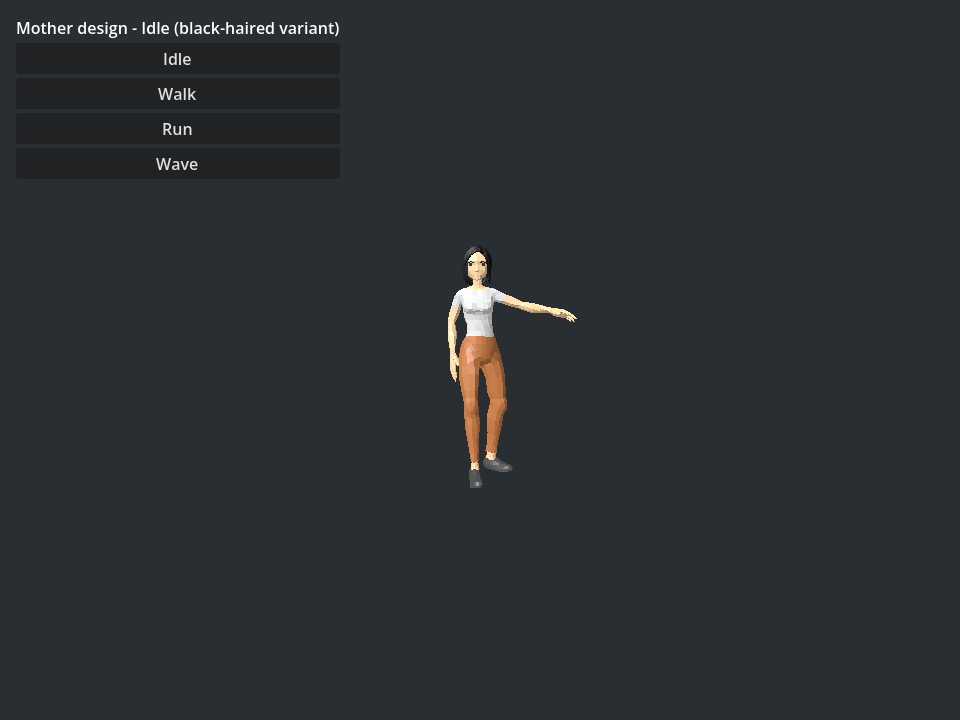
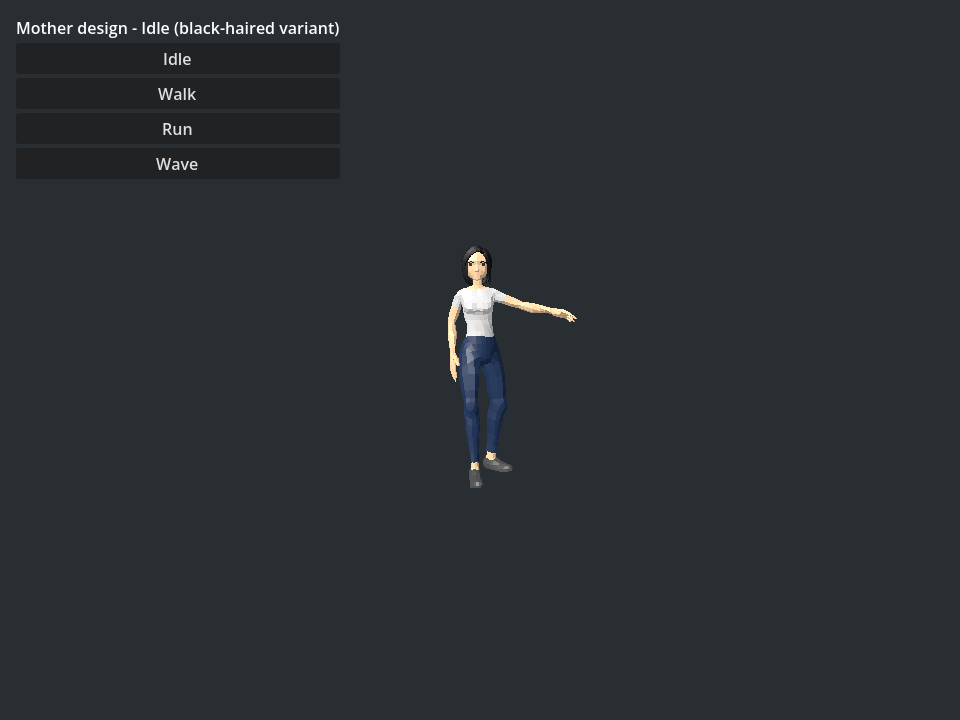
Refine mother clothing and confirm subtle horror design

Changed region(s): [[0.4688, 0.4583, 0.5312, 0.6417]]

diff --git a/design/monster/DESIGN_STAGES.md b/design/monster/DESIGN_STAGES.md
@@ -2,6 +2,8 @@
 
 ## Confirmed direction
 
+Confirmed refinement: keep short black hair and the white shirt; change the trousers to navy blue jeans. Use dark hollow-looking eyes and an exposed-teeth smile, with subtle creepiness rather than exaggerated horror. The pants material is now navy blue; denim texture/detail is not yet added. Hollow eyes and exposed teeth are approved but not yet modeled.
+
 A white mother of average build, black hair, everyday clothing, and a stylized low-poly appearance. Her body remains mostly human. The uncanny features are an unnaturally wide smile, vacant eyes, stretched limbs, and increasing facial distortion.
 
 `assets/monster/Mother.gltf` is a separate first design variant of the approved Casual model. Both hair materials were changed to near-black. Its geometry, rig, clothing, skin material, and animations remain those of the source. The original model is preserved. The existing slim silhouette may need broadening to match the requested average build; skin appearance and clothing colors also need visual approval.
@@ -17,12 +19,8 @@ A white mother of average build, black hair, everyday clothing, and a stylized l
 
 These stage details are proposals, not implemented changes or confirmed gameplay thresholds. Keep one recognizable character and one rig throughout. The current source model lacks facial morph targets; facial geometry needs inspection and custom modeling before promising a smooth transformation.
 
-## Decisions before the next modeling step
+## Next modeling step
 
-- Keep the current short hairstyle or use a longer black hairstyle?
-- Keep the white shirt and orange trousers, or choose a different everyday outfit palette?
-- Vacant eyes: pale/clouded eyes or dark hollow-looking eyes?
-- Wide smile: show teeth or keep a closed-mouth stretched smile?
-- Facial distortion: restrained creepiness or a more exaggerated horror appearance?
+Inspect the facial mesh and plan a subtle exposed-teeth smile and dark eye sockets. Preserve the normal mother appearance at the beginning; the frightening facial treatment should develop in later stages. Exact distortion strength and stage variants still need visual review.
 
 No mechanics, escalation thresholds, chase timing, or capture behavior are implemented by this design step.

diff --git a/design/monster/GODOT_TEST.md b/design/monster/GODOT_TEST.md
@@ -1,5 +1,7 @@
 # Godot model preview test
 
+The navy-trouser revision was reimported and rendered successfully; Idle/Walk/Run/Wave advancement passed again. The captured viewport was inspected and shows navy trousers. This is a material color change, not a finished denim texture.
+
 The preview now loads `assets/monster/Mother.gltf`, a black-haired design variant. Its rendered preview and Idle/Walk/Run/Wave playback were also tested successfully in Godot 4.7.2. The original Casual source remains preserved.
 
 Tested October 8, 2026 with executable version `4.7.2.stable.official.ed1daf0bf`.
